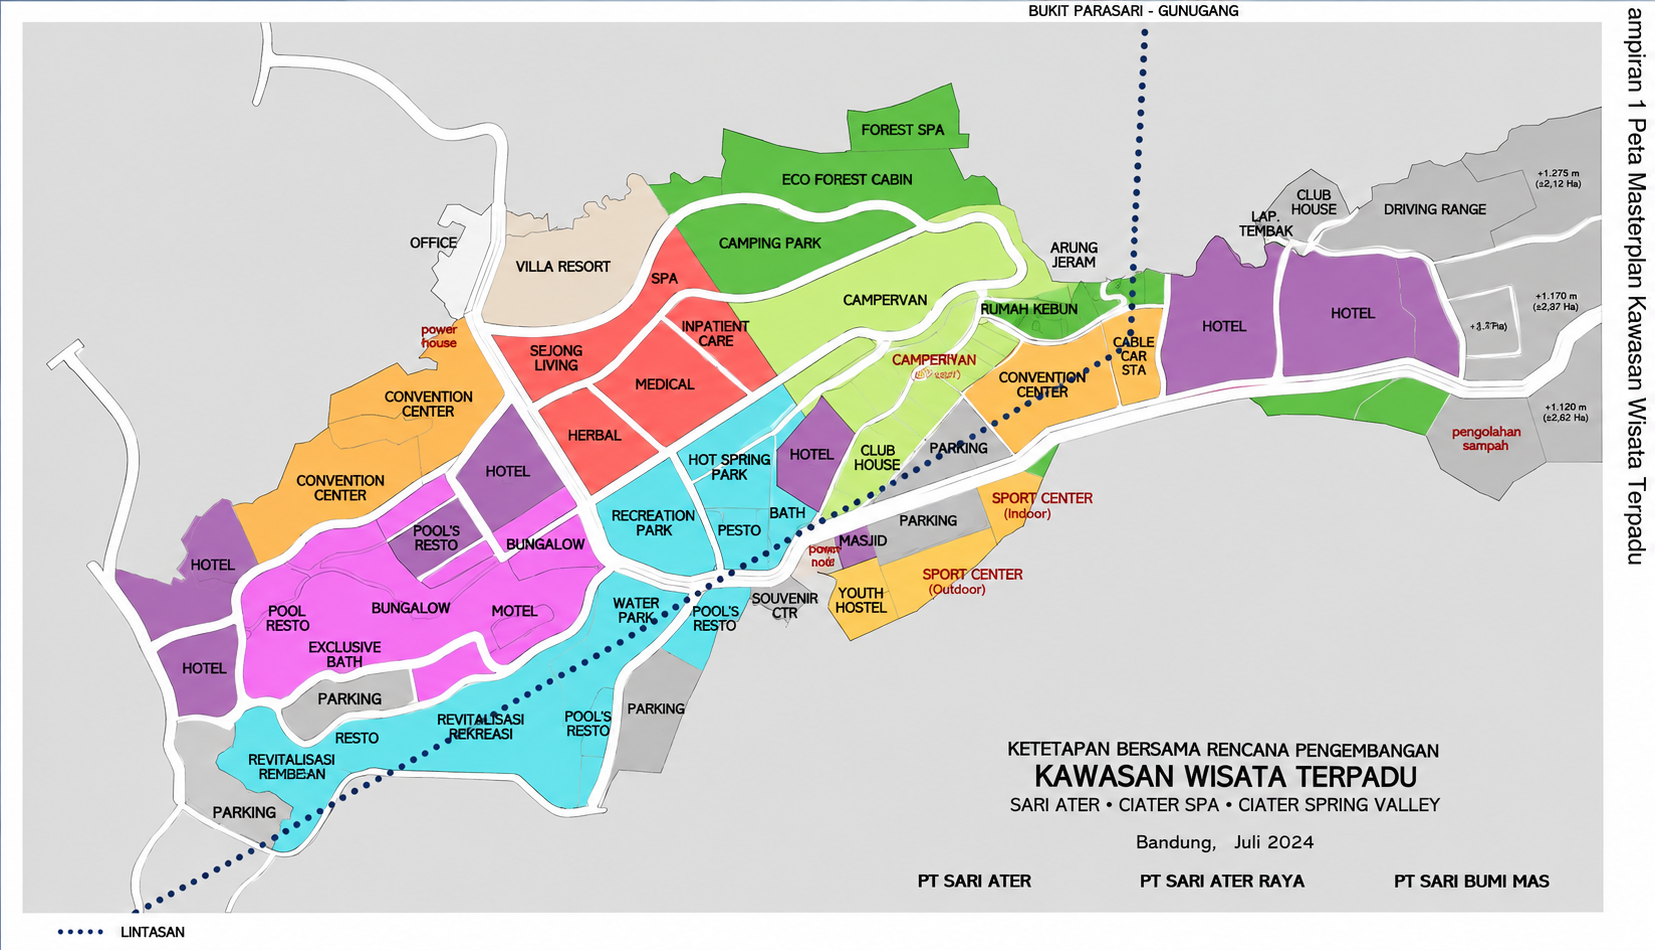
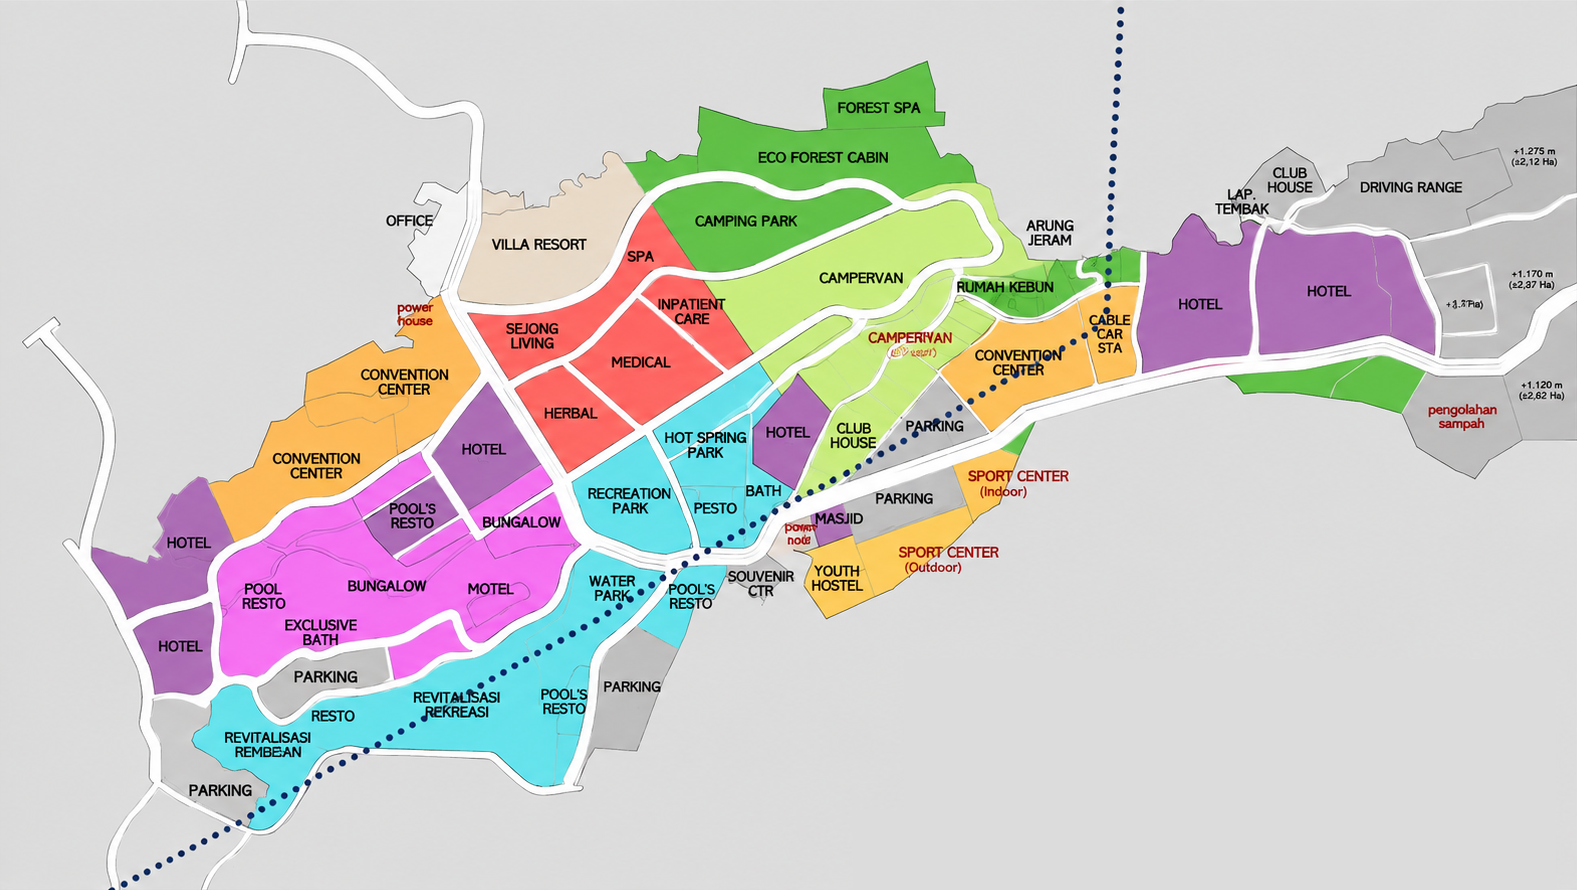
Add files via upload

diff --git a/index.html b/index.html
@@ -12,7 +12,6 @@
             padding: 0;
             height: 100%;
             width: 100%;
-            background-color: #0b1a0b;
         }
         #map {
             height: 100vh;
@@ -20,58 +19,92 @@
         }
         /* Styling untuk Ikon Mobil Holden dengan efek Glow Biru */
         .holden-icon {
-            background: rgba(0, 150, 255, 0.2);
+            background: rgba(0, 150, 255, 0.3);
             border-radius: 50%;
-            box-shadow: 0 0 12px rgba(0, 150, 255, 0.8);
+            box-shadow: 0 0 15px rgba(0, 150, 255, 0.8);
             display: flex;
             align-items: center;
             justify-content: center;
         }
-        /* Panel Informasi Status GPS di Pojok Layar */
-        #gps-info {
+        /* Panel Info GPS di Layar */
+        #gps-status {
             position: absolute;
             bottom: 20px;
             left: 20px;
-            background: rgba(0, 0, 0, 0.75);
+            background: rgba(0, 0, 0, 0.8);
             color: white;
-            padding: 10px 15px;
+            padding: 10px 14px;
             border-radius: 8px;
             font-family: sans-serif;
-            font-size: 12px;
+            font-size: 11px;
             z-index: 1000;
-            max-width: 250px;
         }
     </style>
 </head>
 <body>
 
     <div id="map"></div>
-    <div id="gps-info">Menunggu sinyal GPS HP Anda...</div>
+    <div id="gps-status">Mencari sinyal GPS...</div>
 
     <!-- Masukkan JavaScript Leaflet -->
     <script src="https://unpkg.com/leaflet@1.9.4/dist/leaflet.js"></script>
     <script>
-        // 1. Inisialisasi Peta dengan CRS.Simple (Kanvas Masterplan 2D)
+        // 1. Titik Pusat Awal di Sari Ater
+        var currentLat = -6.737448411559581;
+        var currentLng = 107.65822384739292;
+
         var map = L.map('map', {
-            crs: L.CRS.Simple,
-            minZoom: -3,
-            maxZoom: 4,
             zoomControl: false
-        });
+        }).setView([currentLat, currentLng], 18);
 
-        // 2. Ukuran piksel gambar masterplan Anda
-        var w = 2000; 
-        var h = 1143;
-        var southWest = map.unproject([0, h], map.getMaxZoom());
-        var northEast = map.unproject([w, 0], map.getMaxZoom());
-        var imageBounds = new L.LatLngBounds(southWest, northEast);
+        // 2. Lapisan Peta Google Maps Satelit Hybrid (Foto Udara + Label Jalan)
+        L.tileLayer('https://{s}.google.com/vt/lyrs=y&x={x}&y={y}&z={z}', {
+            maxZoom: 21,
+            subdomains: ['mt0', 'mt1', 'mt2', 'mt3'],
+            attribution: '© Google Maps | Sari Ater Project'
+        }).addTo(map);
 
-        // 3. Masukkan Gambar Masterplan Sebagai Peta Utama
-        var masterplanOverlay = L.imageOverlay('masterplan.png', imageBounds).addTo(map);
+        // 3. Menampilkan Masterplan Permanen Berdasarkan Angka Kalibrasi Anda
+        var img = new Image();
+        img.src = 'masterplan.png';
         
-        // Memusatkan tampilan layar ke tengah masterplan
-        var centerPoint = map.unproject([w / 2, h / 2], map.getMaxZoom());
-        map.setView(centerPoint, 0);
+        img.onload = function() {
+            var imgWidth = this.width;   
+            var imgHeight = this.height; 
+            
+            var baseLatSpan = 0.0035; 
+            var baseLngSpan = 0.0035;
+
+            if (imgWidth >= imgHeight) {
+                baseLngSpan = 0.0040;
+                baseLatSpan = 0.0040 * (imgHeight / imgWidth);
+            } else {
+                baseLatSpan = 0.0040;
+                baseLngSpan = 0.0040 * (imgWidth / imgHeight);
+            }
+
+            // Angka skala dan offset hasil kalibrasi Anda dikunci di sini
+            var finalScale = 4.7; 
+            var latSpan = baseLatSpan * finalScale;
+            var lngSpan = baseLngSpan * finalScale;
+
+            var latOffset = 0.00240;
+            var lngOffset = 0.00240;
+
+            var activeCenterLat = currentLat + latOffset; 
+            var activeCenterLng = currentLng + lngOffset;
+
+            var masterplanBounds = [
+                [activeCenterLat - (latSpan / 2), activeCenterLng - (lngSpan / 2)], 
+                [activeCenterLat + (latSpan / 2), activeCenterLng + (lngSpan / 2)]  
+            ];
+
+            // Opacity diatur 1.0 sesuai pengaturan Anda
+            L.imageOverlay('masterplan.png', masterplanBounds, {
+                opacity: 1.0, 
+                interactive: false
+            }).addTo(map);
+        };
 
         // 4. Membuat Ikon Kustom untuk Mobil Klasik Holden Kingswood
         var holdenIcon = L.divIcon({
@@ -81,48 +114,34 @@
             iconAnchor: [25, 25]
         });
 
-        var carMarker = L.marker(centerPoint, {icon: holdenIcon}).addTo(map);
-        carMarker.bindPopup("<b>Holden Kingswood Sari Ater</b><br>Kendaraan Wisata Interaktif").openPopup();
+        // Menempatkan marker mobil di koordinat Anda
+        var carMarker = L.marker([currentLat, currentLng], {icon: holdenIcon}).addTo(map);
+        carMarker.bindPopup("<b>Holden Kingswood</b><br>Kendaraan Wisata Sari Ater").openPopup();
 
-        // 5. Integrasi GPS Nyata dengan Kalibrasi Area Ciater/Sari Ater (-6.745, 107.695)
+        // 5. Melacak GPS Nyata Pengguna secara Real-Time (atau Sensor Manual PC)
         if (navigator.geolocation) {
             navigator.geolocation.watchPosition(function(position) {
                 var lat = position.coords.latitude;
                 var lng = position.coords.longitude;
                 
-                document.getElementById('gps-info').innerHTML = 
-                    "<b>GPS Aktif:</b><br>Lat: " + lat.toFixed(5) + "<br>Lng: " + lng.toFixed(5);
+                document.getElementById('gps-status').innerHTML = 
+                    "<b>GPS Terhubung:</b><br>Lat: " + lat.toFixed(5) + "<br>Lng: " + lng.toFixed(5);
 
-                // TITIK KALIBRASI AREA SARI ATER:
-                // Pusat koordinat GPS dunia nyata kawasan Sari Ater (Letak tengah masterplan)
-                var centerLat = -6.74500; 
-                var centerLng = 107.69500;
+                // Memperbarui posisi marker mobil sesuai pergerakan GPS
+                carMarker.setLatLng([lat, lng]);
 
-                // Faktor pengali skala piksel (bisa disesuaikan jika pergerakan mobil terlalu cepat/lambat di peta)
-                var scaleFactor = 150000; 
-
-                // Menghitung selisih koordinat dan menerjemahkannya ke piksel kanvas
-                var xMapped = (w / 2) + ((lng - centerLng) * scaleFactor);
-                var yMapped = (h / 2) - ((lat - centerLat) * scaleFactor); // Minus karena sumbu Y kanvas ke bawah
-                
-                var gpsPoint = map.unproject([xMapped, yMapped], map.getMaxZoom());
-                carMarker.setLatLng(gpsPoint);
-                
-                // Opsional: Peta otomatis mengikuti posisi mobil
-                // map.panTo(gpsPoint);
-                
             }, function(error) {
-                document.getElementById('gps-info').innerHTML = "<b>Gagal Mendeteksi GPS:</b> " + error.message;
+                document.getElementById('gps-status').innerHTML = "<b>GPS Error:</b> " + error.message;
             }, {
                 enableHighAccuracy: true,
                 maximumAge: 0,
                 timeout: 5000
             });
         } else {
-            document.getElementById('gps-info').innerHTML = "Browser Anda tidak mendukung GPS.";
+            document.getElementById('gps-status').innerHTML = "GPS tidak didukung browser ini.";
         }
 
-        // 6. Mengaktifkan Kompas Giroskop HP untuk Memutar Aset Mobil Holden
+        // 6. Mengaktifkan Kompas Giroskop HP untuk Memutar Aset Mobil
         if (window.DeviceOrientationEvent) {
             window.addEventListener('deviceorientation', function(event) {
                 var compassHeading = event.alpha; // Arah kompas (0 - 360 derajat)
